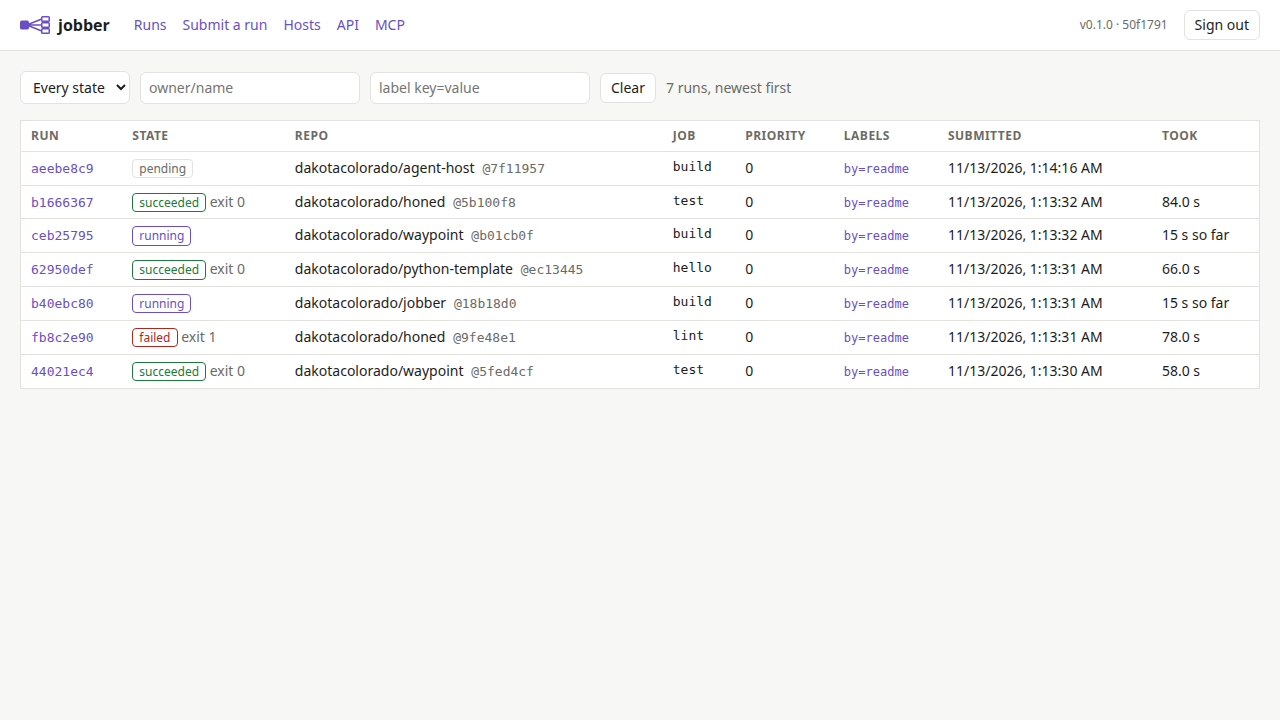
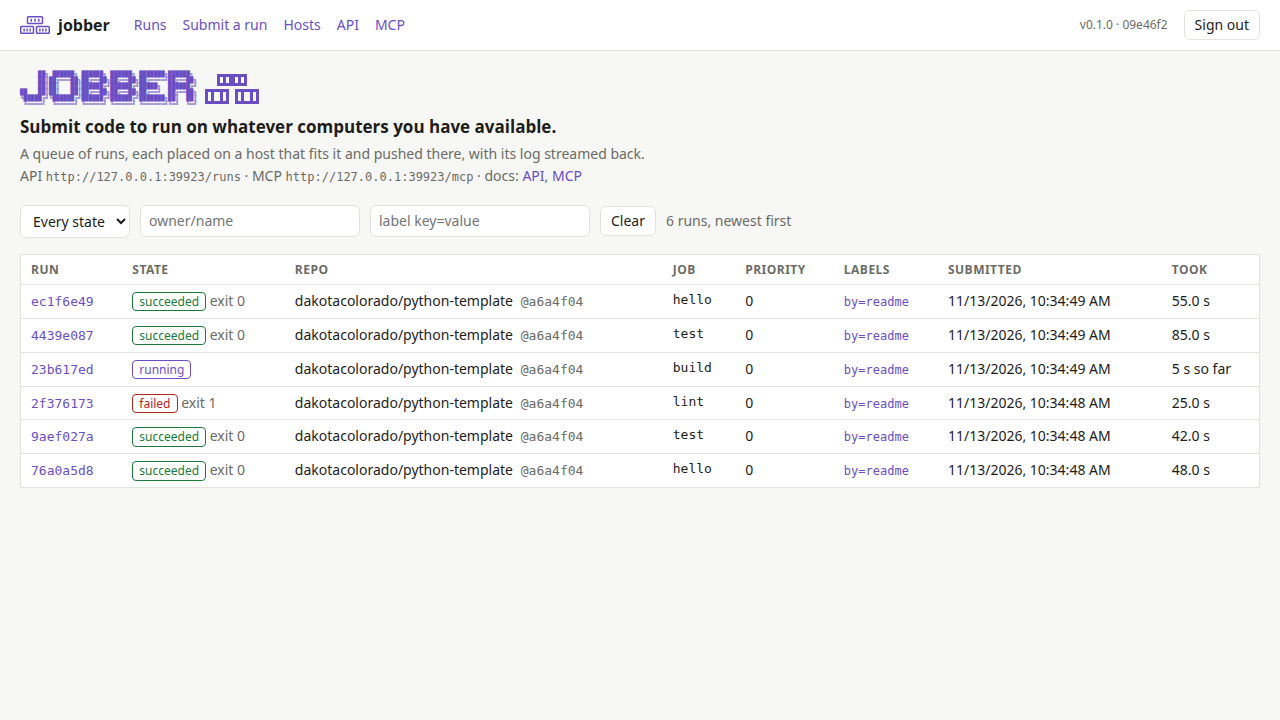
jobber's mark is stacked shipping containers, chosen by the person over the fan-out, which read too much like waypoint's
Three ribbed containers, one stacked on two: the runs, each going out in its
own image. The pixel grid gives the terminal's banner, the README's and the
page's wordmark; the smooth one the page's header and its favicon. The
README's screenshot is retaken with it.

diff --git a/src/banner.ts b/src/banner.ts
@@ -1,4 +1,4 @@
-/** jobber's mark: its name in block letters beside the mark, one job fanning out to the computers that run it. */
+/** jobber's mark: its name in block letters beside the mark, stacked shipping containers: runs, each in its own image. */
 
 const LETTERS = [
   "     ██╗ ██████╗ ██████╗ ██████╗ ███████╗██████╗",
@@ -10,22 +10,23 @@ const LETTERS = [
 ];
 
 /**
- * The mark on an 18 by 12 grid: a filled square, the job, sends three lines
- * out to three open boxes, the computers that run it. The last row is blank so
- * a terminal, drawing two rows a character, gives it as many rows as the letters.
+ * The mark on an 18 by 12 grid: three shipping containers, ribbed, one
+ * stacked on two, the runs each going out in its own image. The first and last
+ * rows are blank so a terminal, drawing two rows a character, gives it as many
+ * rows as the letters, the containers centred on them.
  */
 export const MARK_PIXELS = [
-  "..............####",
-  "............###..#",
-  "..........##..####",
-  "#####...##........",
-  "#####.##......####",
-  "###############..#",
-  "#####.##......####",
-  "#####...##........",
-  "..........##..####",
-  "............###..#",
-  "..............####",
+  "..................",
+  "....##########....",
+  "....#.#.##.#.#....",
+  "....#.#.##.#.#....",
+  "....##########....",
+  "..................",
+  "########..########",
+  "#.#..#.#..#.#..#.#",
+  "#.#..#.#..#.#..#.#",
+  "#.#..#.#..#.#..#.#",
+  "########..########",
   "..................",
 ];
 
@@ -56,18 +57,17 @@ export const MARK_PIXEL_SVG = `<svg xmlns="http://www.w3.org/2000/svg" aria-hidd
   [...row].flatMap((pixel, x) => (pixel === "#" ? [`<rect x="${x}" y="${y}" width="1" height="1"/>`] : [])),
 ).join("")}</svg>`;
 
-/** The mark drawn smooth, for small sizes: `ink` fills the job and strokes the lines and computers, `ground` fills the computers. */
-const smoothMark = (ink: string, ground: string, style = "") =>
-  `<svg xmlns="http://www.w3.org/2000/svg" aria-hidden="true" viewBox="0 0 40 24">${style}<g fill="none" stroke="${ink}" stroke-width="2" stroke-linejoin="round"><path d="M9 12L29 4M9 12H29M9 12L29 20"/>${[
-    4, 12, 20,
-  ]
-    .map((y) => `<rect x="29" y="${y - 3}" width="10" height="6" rx="1" fill="${ground}"/>`)
-    .join("")}<rect x="1" y="7" width="10" height="10" rx="1.5" fill="${ink}"/></g></svg>`;
+/** The mark drawn smooth, for small sizes: `ink` strokes each container and its ribs, `ground` fills them. */
+const smoothMark = (ink: string, ground: string, style = "") => {
+  const box = (x: number, y: number, w: number, h: number, ribs: number[]) =>
+    `<rect x="${x}" y="${y}" width="${w}" height="${h}" rx="1" fill="${ground}"/>` + ribs.map((r) => `<path d="M${x + r} ${y + 2.5}V${y + h - 2.5}"/>`).join("");
+  return `<svg xmlns="http://www.w3.org/2000/svg" aria-hidden="true" viewBox="0 0 40 24">${style}<g fill="none" stroke="${ink}" stroke-width="2" stroke-linejoin="round">${box(10, 1, 20, 9, [5, 10, 15])}${box(1, 14, 17, 9, [4.5, 8.5, 12.5])}${box(22, 14, 17, 9, [4.5, 8.5, 12.5])}</g></svg>`;
+};
 
 /** The smooth mark in the page's colors, for its header. */
 export const MARK_SVG = smoothMark("currentColor", "var(--panel)");
 
-/** The smooth mark on its own, as the page's favicon: violet, its computers the tab's light or dark. */
+/** The smooth mark on its own, as the page's favicon: violet, its containers filled the tab's light or dark. */
 export const MARK_ICON = smoothMark(
   "var(--ink)",
   "var(--ground)",

diff --git a/ui/index.html b/ui/index.html
@@ -10,7 +10,7 @@
 </head>
 <body>
 <header>
-  <a class="brand" href="#/"><svg xmlns="http://www.w3.org/2000/svg" aria-hidden="true" viewBox="0 0 40 24"><g fill="none" stroke="currentColor" stroke-width="2" stroke-linejoin="round"><path d="M9 12L29 4M9 12H29M9 12L29 20"/><rect x="29" y="1" width="10" height="6" rx="1" fill="var(--panel)"/><rect x="29" y="9" width="10" height="6" rx="1" fill="var(--panel)"/><rect x="29" y="17" width="10" height="6" rx="1" fill="var(--panel)"/><rect x="1" y="7" width="10" height="10" rx="1.5" fill="currentColor"/></g></svg>jobber</a>
+  <a class="brand" href="#/"><svg xmlns="http://www.w3.org/2000/svg" aria-hidden="true" viewBox="0 0 40 24"><g fill="none" stroke="currentColor" stroke-width="2" stroke-linejoin="round"><rect x="10" y="1" width="20" height="9" rx="1" fill="var(--panel)"/><path d="M15 3.5V7.5"/><path d="M20 3.5V7.5"/><path d="M25 3.5V7.5"/><rect x="1" y="14" width="17" height="9" rx="1" fill="var(--panel)"/><path d="M5.5 16.5V20.5"/><path d="M9.5 16.5V20.5"/><path d="M13.5 16.5V20.5"/><rect x="22" y="14" width="17" height="9" rx="1" fill="var(--panel)"/><path d="M26.5 16.5V20.5"/><path d="M30.5 16.5V20.5"/><path d="M34.5 16.5V20.5"/></g></svg>jobber</a>
   <nav>
     <a href="#/">Runs</a>
     <a href="#/new">Submit a run</a>

diff --git a/src/banner.spec.ts b/src/banner.spec.ts
@@ -14,7 +14,7 @@ describe("banner", () => {
     expect(MARK_PIXELS).toHaveLength(12);
     expect(new Set(MARK_PIXELS.map((row) => row.length))).toEqual(new Set([18]));
     expect(WORDMARK.split("\n")).toHaveLength(6);
-    expect(WORDMARK.split("\n")[0]).toMatch(/^ {5}██╗ ██████╗.*  +▄▄█▀▀█$/);
+    expect(WORDMARK.split("\n")[0]).toMatch(/^ {5}██╗ ██████╗.*  +▄{10}$/);
   });
 
   it("says what jobber is and where its page, API and MCP are, at the public address", () => {

diff --git a/README.md b/README.md
@@ -3,12 +3,12 @@
 **Submit code to run on whatever computers you have available.**
 
 ```
-     ██╗ ██████╗ ██████╗ ██████╗ ███████╗██████╗               ▄▄█▀▀█
-     ██║██╔═══██╗██╔══██╗██╔══██╗██╔════╝██╔══██╗  ▄▄▄▄▄   ▄▄▀▀  ▀▀▀▀
-     ██║██║   ██║██████╔╝██████╔╝█████╗  ██████╔╝  █████▄██▄▄▄▄▄▄█▀▀█
-██   ██║██║   ██║██╔══██╗██╔══██╗██╔══╝  ██╔══██╗  █████ ▀▀▄▄    ▀▀▀▀
-╚█████╔╝╚██████╔╝██████╔╝██████╔╝███████╗██║  ██║            ▀▀▄▄█▀▀█
- ╚════╝  ╚═════╝ ╚═════╝ ╚═════╝ ╚══════╝╚═╝  ╚═╝                ▀▀▀▀
+     ██╗ ██████╗ ██████╗ ██████╗ ███████╗██████╗       ▄▄▄▄▄▄▄▄▄▄
+     ██║██╔═══██╗██╔══██╗██╔══██╗██╔════╝██╔══██╗      █ █ ██ █ █
+     ██║██║   ██║██████╔╝██████╔╝█████╗  ██████╔╝      ▀▀▀▀▀▀▀▀▀▀
+██   ██║██║   ██║██╔══██╗██╔══██╗██╔══╝  ██╔══██╗  █▀█▀▀█▀█  █▀█▀▀█▀█
+╚█████╔╝╚██████╔╝██████╔╝██████╔╝███████╗██║  ██║  █ █  █ █  █ █  █ █
+ ╚════╝  ╚═════╝ ╚═════╝ ╚═════╝ ╚══════╝╚═╝  ╚═╝  ▀▀▀▀▀▀▀▀  ▀▀▀▀▀▀▀▀
 v0.1.0
 
 Submit code to run on whatever computers you have available.
